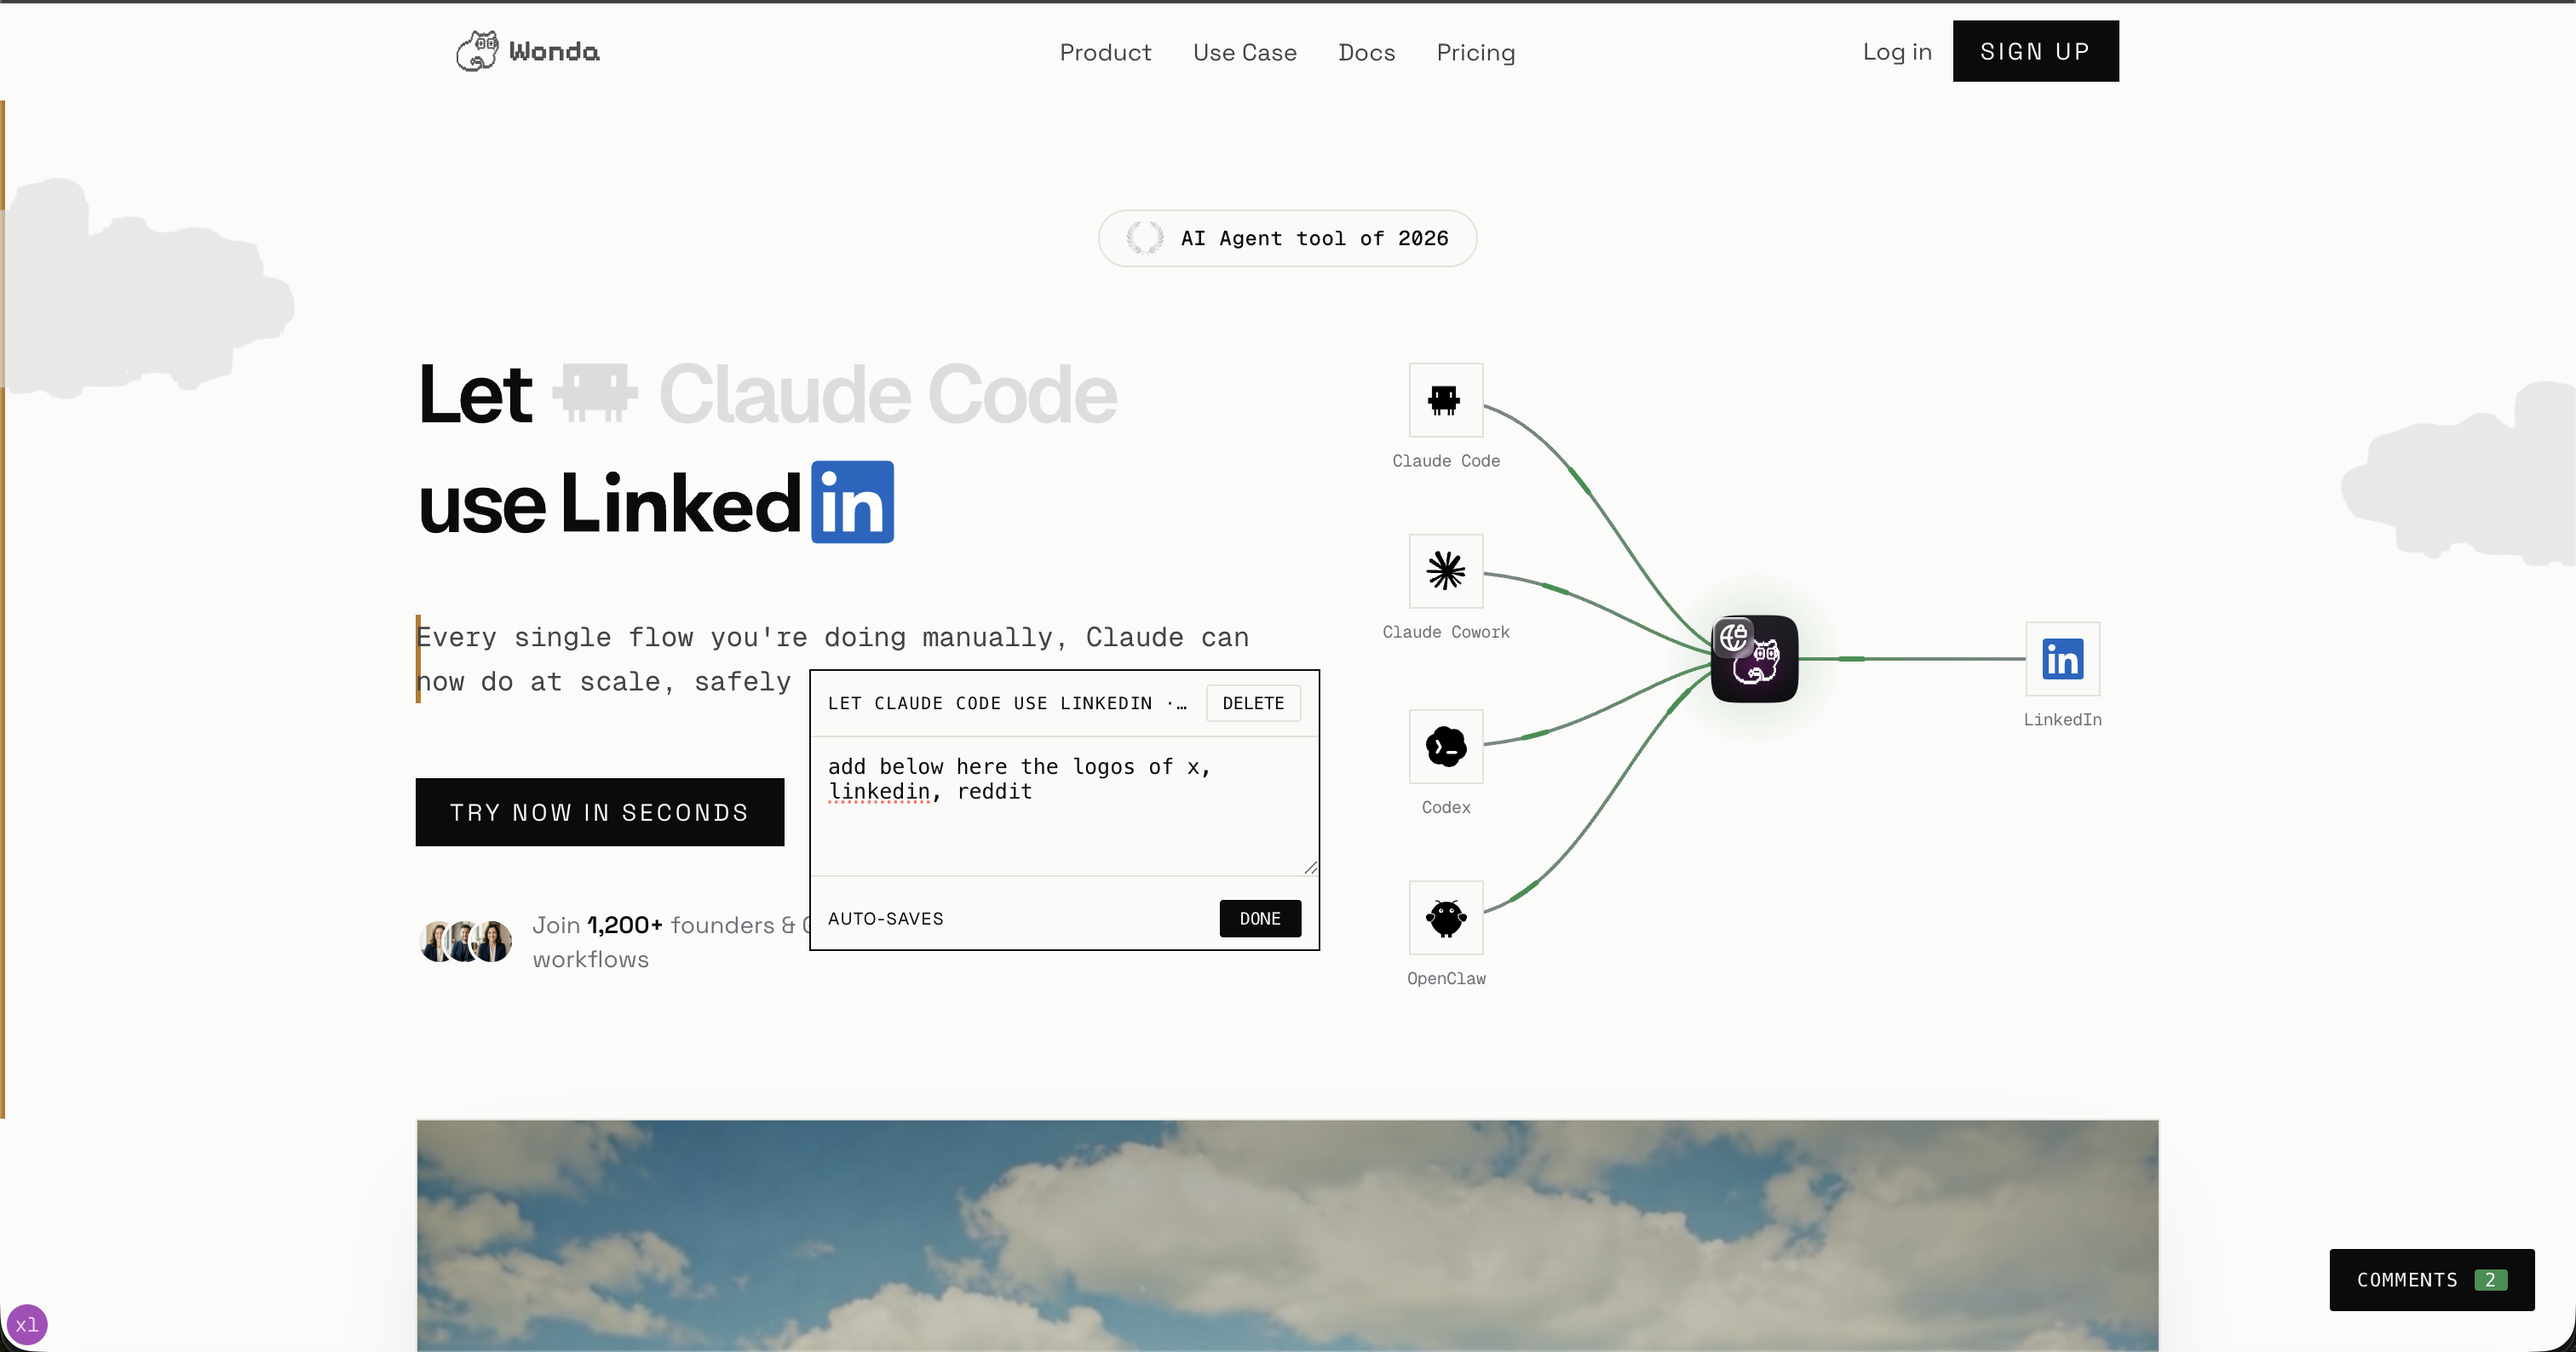
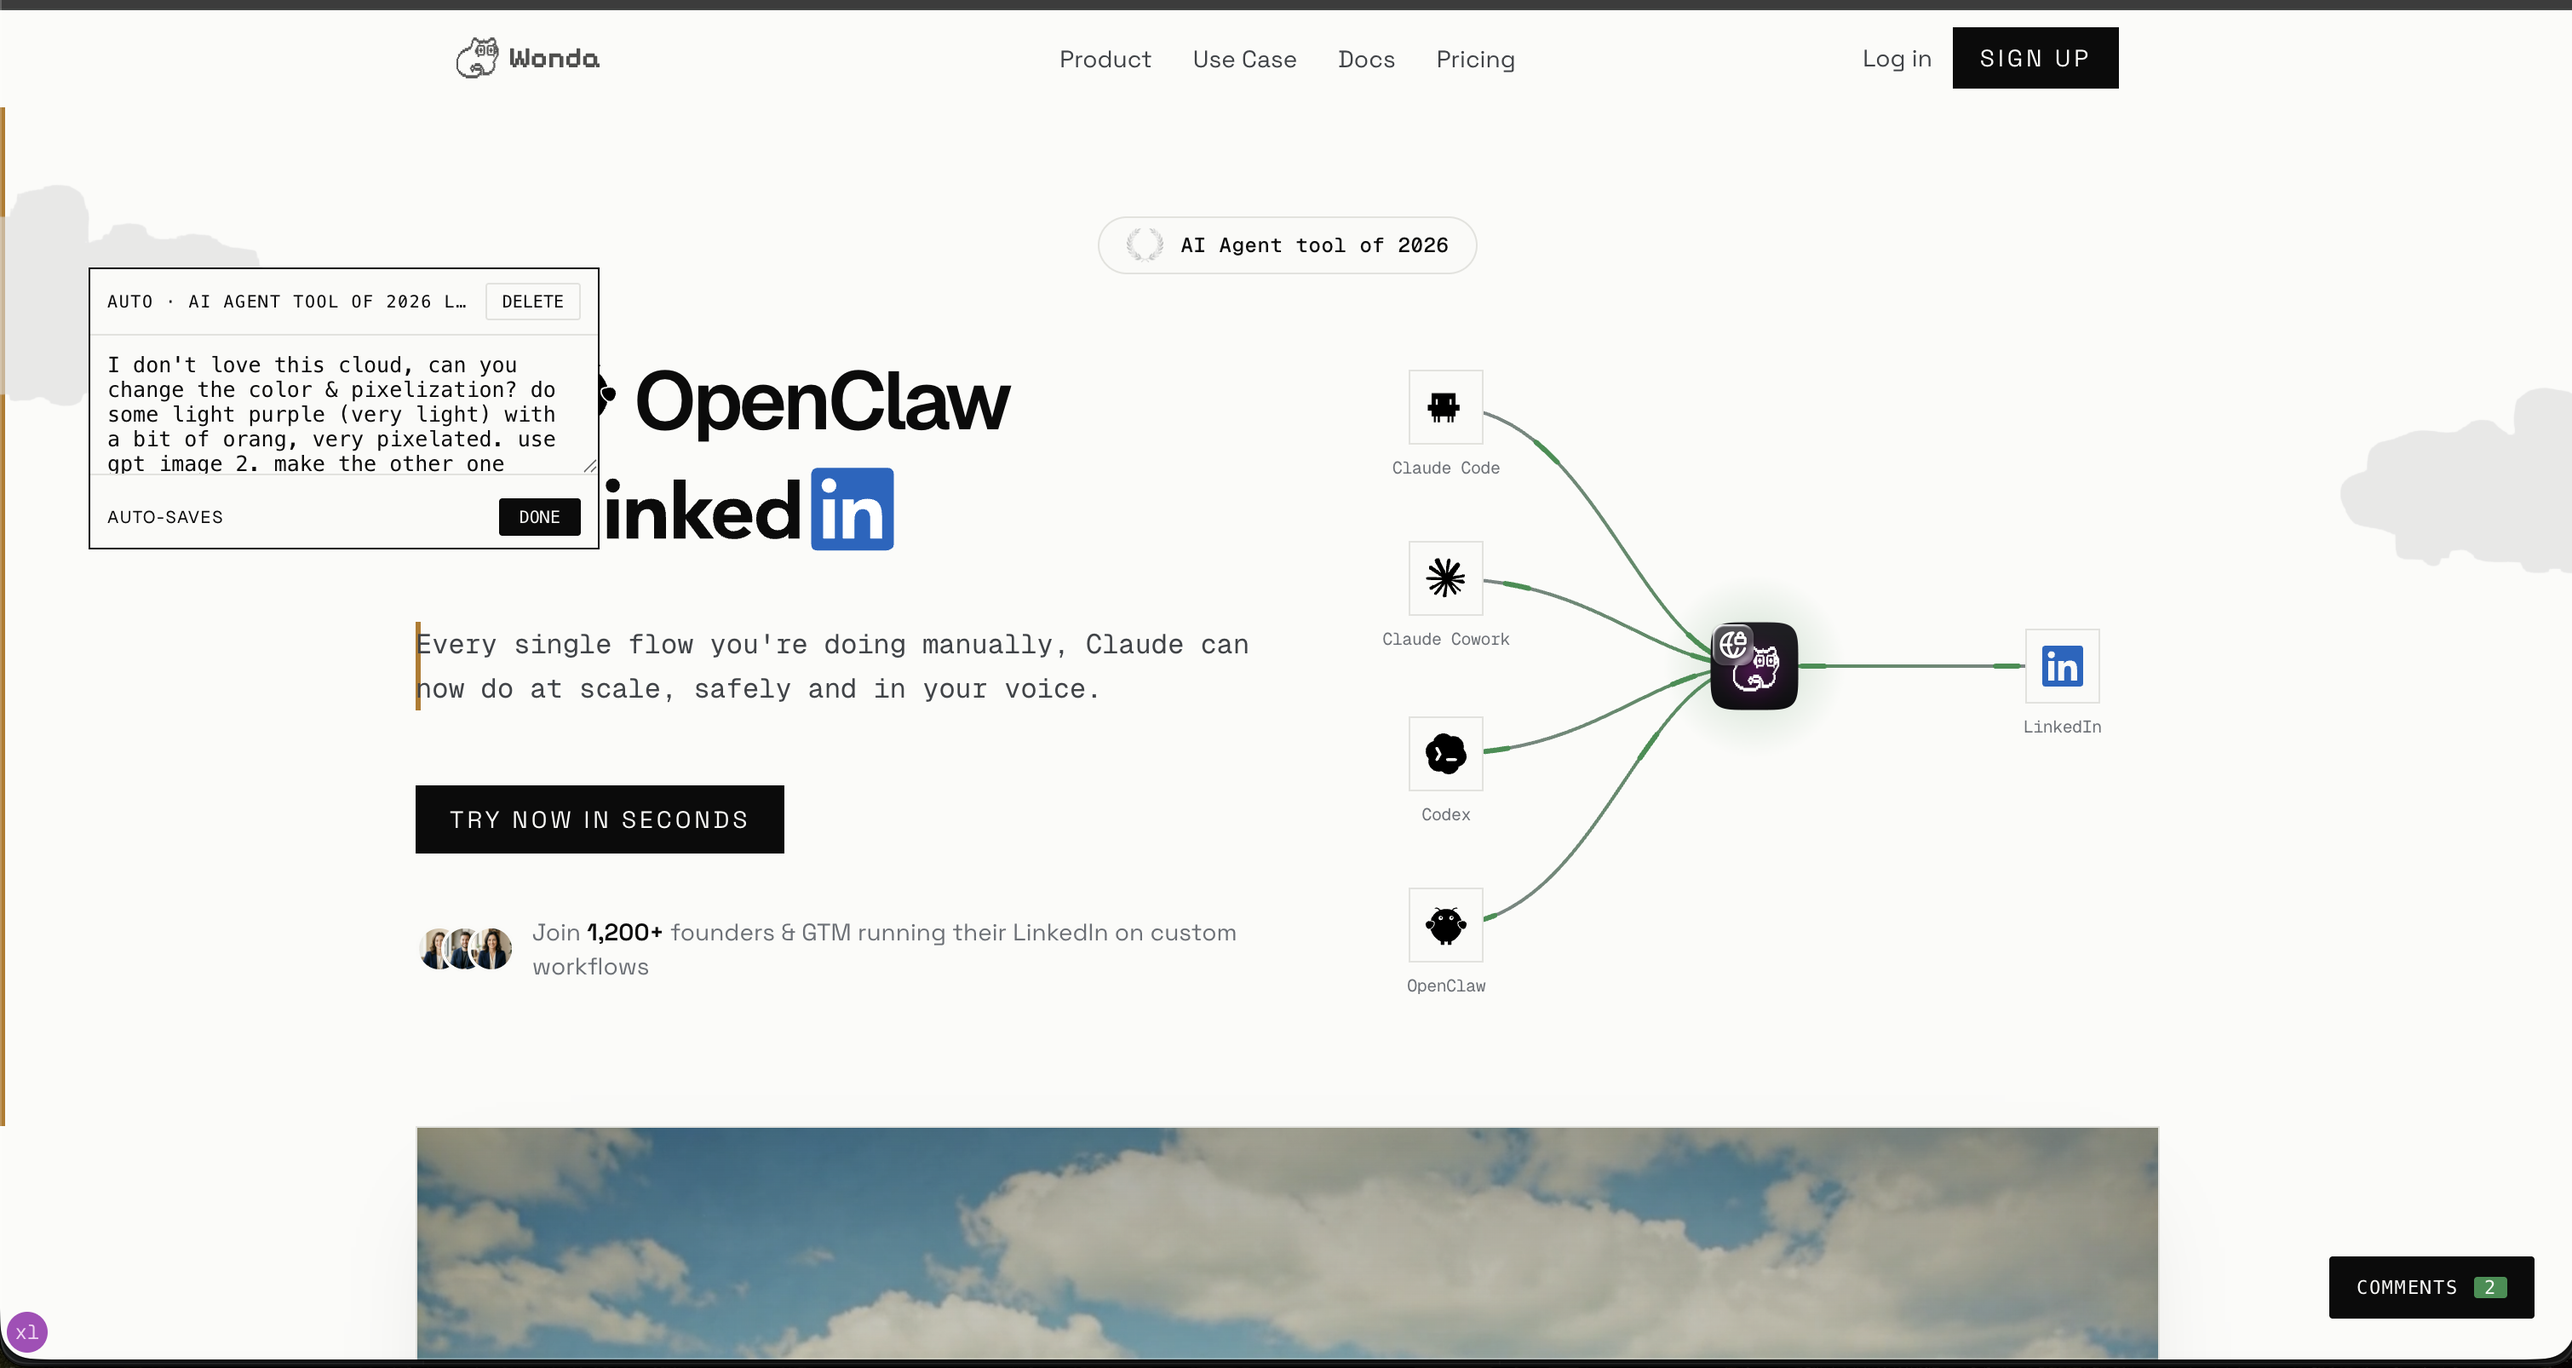
docs: feature the visual comment example

diff --git a/README.md b/README.md
@@ -21,7 +21,7 @@
 Right-click what you want changed and leave the note where it belongs. Fidibaku keeps the comment attached to that element.
 
 <p align="center">
-  <img src="docs/assets/comment-on-ui.png" width="1000" alt="A Fidibaku comment attached directly to a website headline">
+  <img src="docs/assets/comment-on-ui.png" width="1000" alt="A Fidibaku comment attached directly to a website cloud illustration">
 </p>
 
 <br>
